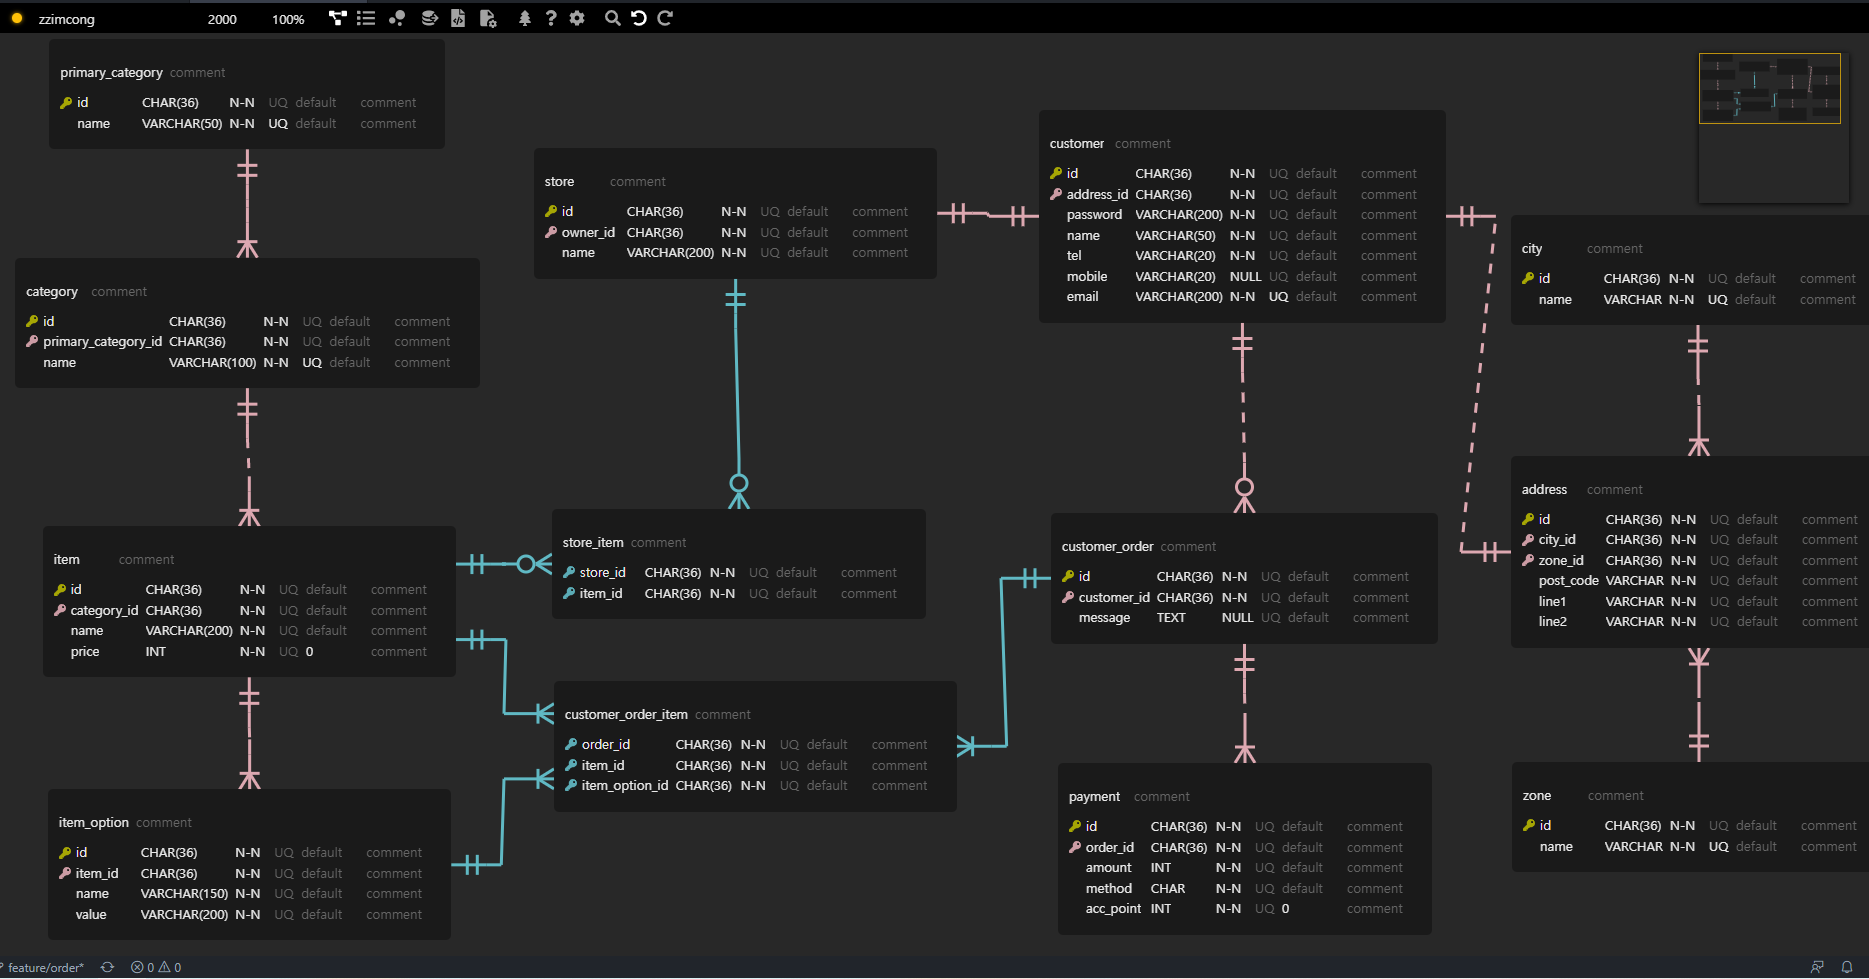
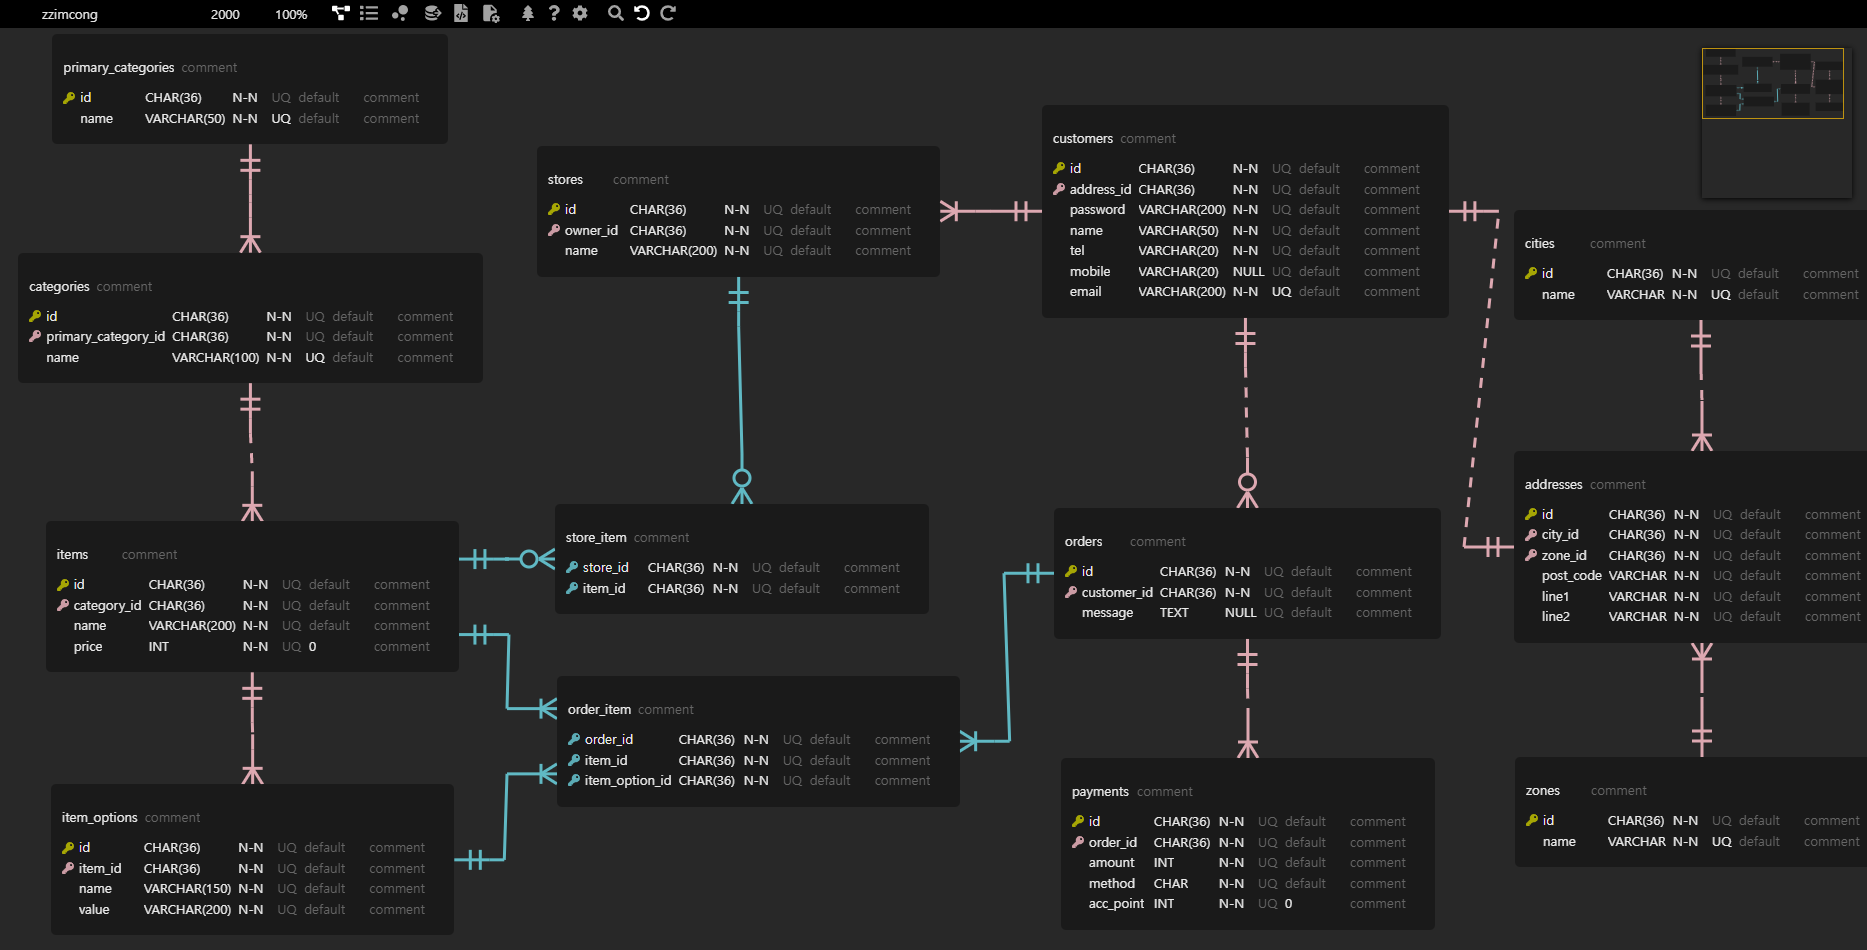
Modify models & ERD

diff --git a/src/main/java/com/example/demo/model/Item.java b/src/main/java/com/example/demo/model/Item.java
@@ -4,7 +4,7 @@ import javax.persistence.*;
 import java.util.HashSet;
 import java.util.Set;
 
-@Entity
+@Entity(name = "items")
 public class Item {
     @Id
     private String id;
@@ -16,14 +16,11 @@ public class Item {
     private Category category;
 
     @OneToMany(mappedBy = "item")
-    private Set<ItemOption> itemOptions;
+    private Set<ItemOption> itemOptions = new HashSet<>();
 
-    @ManyToMany
-    @JoinTable(name = "store_item",
-                joinColumns = @JoinColumn(name = "item_id"),
-                inverseJoinColumns = @JoinColumn(name = "store_id"))
-    private Set<Store> stores = new HashSet<>();
+    @OneToMany(mappedBy = "item")
+    private Set<StoreItem> storeItems = new HashSet<>();
 
-    @ManyToMany(mappedBy = "items")
-    private Set<CustomerOrder> customerOrders = new HashSet<>();
+    @OneToMany(mappedBy = "item")
+    private Set<OrderItem> orderItems = new HashSet<>();
 }

diff --git a/src/main/java/com/example/demo/model/key/OrderItemKey.java b/src/main/java/com/example/demo/model/key/OrderItemKey.java
@@ -1,0 +1,31 @@
+package com.example.demo.model.key;
+
+import java.io.Serializable;
+import java.util.Objects;
+
+public class OrderItemKey implements Serializable {
+    private String order;
+    private String item;
+    private String itemOption;
+
+    public OrderItemKey(String order, String item, String itemOption) {
+        this.order = order;
+        this.item = item;
+        this.itemOption = itemOption;
+    }
+
+    @Override
+    public int hashCode() {
+        return Objects.hash(order, item, itemOption);
+    }
+
+    @Override
+    public boolean equals(Object obj) {
+        if (this == obj) return true;
+        else if (obj == null || this.getClass() != obj.getClass()) return false;
+        OrderItemKey key = (OrderItemKey) obj;
+        return key.order.equals(order) &&
+                key.item.equals(item) &&
+                key.itemOption.equals(itemOption);
+    }
+}

diff --git a/src/main/java/com/example/demo/model/key/StoreItemKey.java b/src/main/java/com/example/demo/model/key/StoreItemKey.java
@@ -1,0 +1,30 @@
+package com.example.demo.model.key;
+
+import java.io.Serializable;
+import java.util.Objects;
+
+public class StoreItemKey implements Serializable {
+    private String store;
+    private String item;
+
+    public StoreItemKey() {}
+
+    public StoreItemKey(String store, String item) {
+        this.store = store;
+        this.item = item;
+    }
+
+    @Override
+    public int hashCode() {
+        return Objects.hash(store, item);
+    }
+
+    @Override
+    public boolean equals(Object obj) {
+        if (this == obj) return true;
+        else if (obj == null || this.getClass() != obj.getClass()) return false;
+        StoreItemKey key = (StoreItemKey) obj;
+        return key.store.equals(store) &&
+                key.item.equals(item);
+    }
+}

diff --git a/src/main/java/com/example/demo/model/Order.java b/src/main/java/com/example/demo/model/Order.java
@@ -1,0 +1,22 @@
+package com.example.demo.model;
+
+import javax.persistence.*;
+import java.util.HashSet;
+import java.util.Set;
+
+@Entity(name = "orders")
+public class Order {
+    @Id
+    private String id;
+    private String message;
+
+    @ManyToOne
+    @JoinColumn(name = "customer_id")
+    private Customer customer;
+
+    @OneToMany(mappedBy = "order")
+    private Set<Payment> payments = new HashSet<>();
+
+    @OneToMany(mappedBy = "order")
+    private Set<OrderItem> orderItems = new HashSet<>();
+}

diff --git a/src/main/java/com/example/demo/model/ItemOption.java b/src/main/java/com/example/demo/model/ItemOption.java
@@ -4,7 +4,7 @@ import javax.persistence.*;
 import java.util.HashSet;
 import java.util.Set;
 
-@Entity
+@Entity(name = "item_options")
 public class ItemOption {
     @Id
     private String id;
@@ -15,6 +15,6 @@ public class ItemOption {
     @JoinColumn(name = "item_id")
     private Item item;
 
-    @ManyToMany(mappedBy = "itemOptions")
-    private Set<CustomerOrder> customerOrders = new HashSet<>();
+    @OneToMany(mappedBy = "itemOption")
+    private Set<OrderItem> orderItems = new HashSet<>();
 }

diff --git a/src/main/java/com/example/demo/model/OrderItem.java b/src/main/java/com/example/demo/model/OrderItem.java
@@ -1,0 +1,24 @@
+package com.example.demo.model;
+
+import com.example.demo.model.key.OrderItemKey;
+
+import javax.persistence.*;
+
+@Entity(name = "order_item")
+@IdClass(OrderItemKey.class)
+public class OrderItem {
+    @Id
+    @ManyToOne
+    @JoinColumn(name = "order_id")
+    private Order order;
+
+    @Id
+    @ManyToOne
+    @JoinColumn(name = "item_id")
+    private Item item;
+
+    @Id
+    @ManyToOne
+    @JoinColumn(name = "item_option_id")
+    private ItemOption itemOption;
+}

diff --git a/src/main/java/com/example/demo/model/Store.java b/src/main/java/com/example/demo/model/Store.java
@@ -1,9 +1,10 @@
 package com.example.demo.model;
 
 import javax.persistence.*;
+import java.util.HashSet;
 import java.util.Set;
 
-@Entity
+@Entity(name = "stores")
 public class Store {
     @Id
     private String id;
@@ -13,6 +14,6 @@ public class Store {
     @JoinColumn(name = "owner_id")
     private Customer customer;
 
-    @ManyToMany(mappedBy = "stores")
-    private Set<Item> items;
+    @OneToMany(mappedBy = "store")
+    private Set<StoreItem> storeItems = new HashSet<>();
 }

diff --git a/src/main/java/com/example/demo/model/Customer.java b/src/main/java/com/example/demo/model/Customer.java
@@ -6,7 +6,7 @@ import javax.persistence.OneToMany;
 import java.util.HashSet;
 import java.util.Set;
 
-@Entity
+@Entity(name = "customers")
 public class Customer {
     @Id
     private String id;
@@ -20,5 +20,5 @@ public class Customer {
     private Set<Store> stores = new HashSet<>();
 
     @OneToMany(mappedBy = "customer")
-    private Set<CustomerOrder> customerOrders = new HashSet<>();
+    private Set<Order> orders = new HashSet<>();
 }

diff --git a/src/main/java/com/example/demo/model/StoreItem.java b/src/main/java/com/example/demo/model/StoreItem.java
@@ -1,0 +1,19 @@
+package com.example.demo.model;
+
+import com.example.demo.model.key.StoreItemKey;
+
+import javax.persistence.*;
+
+@Entity(name = "store_item")
+@IdClass(StoreItemKey.class)
+public class StoreItem {
+    @Id
+    @ManyToOne
+    @JoinColumn(name = "store_id")
+    private Store store;
+
+    @Id
+    @ManyToOne
+    @JoinColumn(name = "item_id")
+    private Item item;
+}

diff --git a/src/main/java/com/example/demo/model/Payment.java b/src/main/java/com/example/demo/model/Payment.java
@@ -5,7 +5,7 @@ import javax.persistence.Id;
 import javax.persistence.JoinColumn;
 import javax.persistence.ManyToOne;
 
-@Entity
+@Entity(name = "payments")
 public class Payment {
     @Id
     private String id;
@@ -15,5 +15,5 @@ public class Payment {
 
     @ManyToOne
     @JoinColumn(name = "order_id")
-    private CustomerOrder customerOrder;
+    private Order order;
 }

diff --git a/src/main/java/com/example/demo/model/PrimaryCategory.java b/src/main/java/com/example/demo/model/PrimaryCategory.java
@@ -5,7 +5,7 @@ import javax.persistence.Id;
 import javax.persistence.OneToMany;
 import java.util.Set;
 
-@Entity
+@Entity(name = "primary_categories")
 public class PrimaryCategory {
     @Id
     private String id;

diff --git a/src/main/java/com/example/demo/model/Address.java b/src/main/java/com/example/demo/model/Address.java
@@ -5,7 +5,7 @@ import javax.persistence.Id;
 import javax.persistence.JoinColumn;
 import javax.persistence.ManyToOne;
 
-@Entity
+@Entity(name = "addresses")
 public class Address {
     @Id
     private String id;
